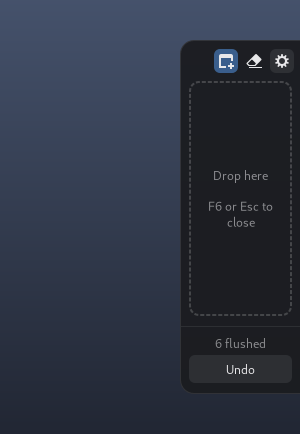
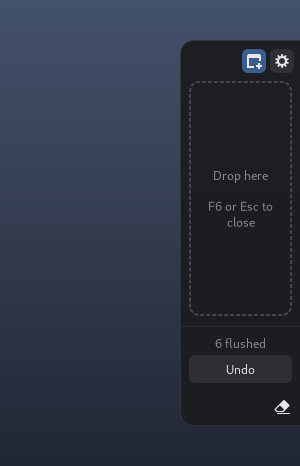
Move Flush to the bottom-right corner of the panel

diff --git a/shelf/panel.py b/shelf/panel.py
@@ -17,8 +17,8 @@ def breakable(name):
     """Let long file names wrap after _ and - and before the extension, not mid-word."""
     name = re.sub(r"([_\-])", r"\1" + ZWSP, name)
     return re.sub(r"\.(?=[^.]+$)", ZWSP + ".", name)
-# Space taken by everything except the item list (header, padding, undo bar).
-CHROME_HEIGHT = 120
+# Space taken by everything except the item list (header, footer, padding, undo bar).
+CHROME_HEIGHT = 150
 
 
 class ItemRow(Gtk.ListBoxRow):
@@ -152,7 +152,6 @@ class ShelfPanel(Gtk.Window):
             lambda b, e: e.button == Gdk.BUTTON_SECONDARY and (on_float_menu(e) or True))
         header.pack_start(self.count, True, True, 0)
         header.pack_end(settings_button, False, False, 0)
-        header.pack_end(self.flush_button, False, False, 0)
         header.pack_end(self.float_button, False, False, 0)
         # The header's empty space is the grip for moving the shelf to another side.
         self.header = Gtk.EventBox(visible_window=False)
@@ -202,6 +201,12 @@ class ShelfPanel(Gtk.Window):
         undo_box.pack_start(undo_button, False, False, 0)
         self.undo = Gtk.Revealer(transition_type=Gtk.RevealerTransitionType.NONE)
         self.undo.add(undo_box)
+
+        # Flush sits in the bottom-right corner, away from the header's other buttons.
+        self.footer = Gtk.Box()
+        self.footer.get_style_context().add_class("shelf-footer")
+        self.footer.pack_end(self.flush_button, False, False, 0)
+        self.frame.pack_end(self.footer, False, False, 0)
         self.frame.pack_end(self.undo, False, False, 0)
 
         # Never shown: a sample row in the panel's styling, to measure the minimum height.
@@ -274,7 +279,8 @@ class ShelfPanel(Gtk.Window):
         self.frame.set_size_request(width, -1)
         content = self.frame.get_preferred_height_for_width(width)[1]
         row = self._probe.get_children()[0].get_preferred_height_for_width(width)[1]
-        chrome = self.header.get_preferred_height_for_width(width)[1] + 8
+        chrome = (self.header.get_preferred_height_for_width(width)[1]
+                  + self.footer.get_preferred_height_for_width(width)[1] + 8)
         if self.undo.get_reveal_child():
             chrome += self.undo.get_preferred_height_for_width(width)[1]
         return max(content, chrome + min_items * row)

diff --git a/shelf/style.py b/shelf/style.py
@@ -45,6 +45,7 @@ CSS = b"""
   padding: 16px 6px; margin: 4px 8px 10px 8px; font-size: smaller;
   border: 2px dashed rgba(255, 255, 255, 0.18); border-radius: 10px;
 }
+.shelf-footer { padding: 2px 6px 6px 6px; }
 .shelf-undo { padding: 8px 8px 10px 8px; font-size: smaller; border-top: 1px solid rgba(255, 255, 255, 0.08); }
 
 .shelf.shelf-float { border-radius: 14px; border-width: 1px; padding: 8px 6px; font-size: smaller; }

diff --git a/README.md b/README.md
@@ -53,8 +53,8 @@ itself, so the login entry points at the AppImage file.
 ## How it behaves
 
 The shelf sits against the screen edge. Items show a thumbnail (or their icon)
-with the name underneath; the header holds the item count and the buttons for the
-floating drop panel, **Flush** and **Settings**.
+with the name underneath. The header holds the item count and the buttons for the
+floating drop panel and **Settings**; **Flush** sits in the bottom-right corner.
 
 - **F6** opens the empty shelf; F6 or Esc closes it again.
 - While the shelf holds anything it stays visible, on top of other windows.
@@ -86,7 +86,7 @@ floating drop panel, **Flush** and **Settings**.
   snaps to the nearest side of the monitor you dropped it on.
 <img src="docs/images/shelf-flushed.png" alt="The shelf right after a flush, offering Undo" align="right" height="300">
 
-- The eraser icon (**Flush**) empties the shelf. After a flush or drop, **Undo** stays up for a
+- The eraser icon (**Flush**, bottom right) empties the shelf. After a flush or drop, **Undo** stays up for a
   few seconds.
 - Right-click an item: Open, Show in Folder, Copy, Remove. Double-click opens
   a file or link, or copies a snippet.
